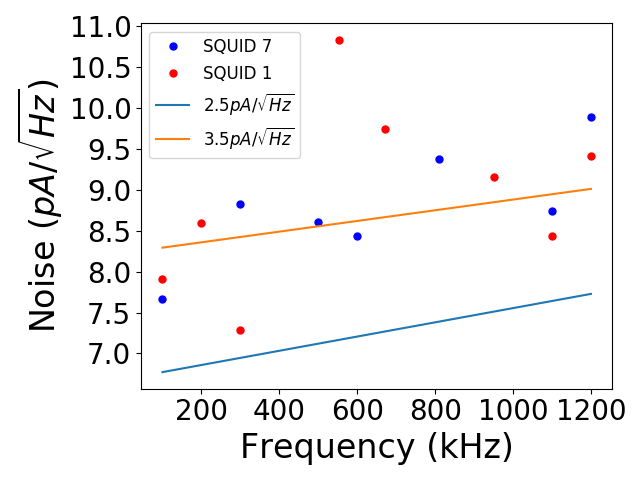
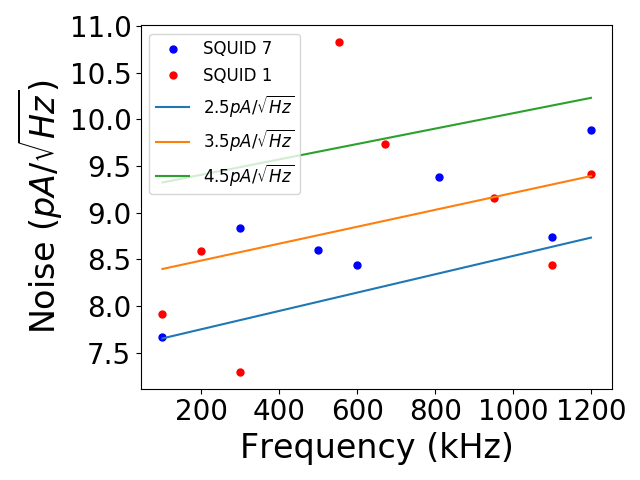
all squid noise predictions need to agree

diff --git a/operation.tex b/operation.tex
@@ -28,7 +28,7 @@
 \hline
 \end{tabular}
 \end{center}
-\caption{The detector yield broken down by observation frequency band, 150, 250, and 410~GHz, as well as the sum. Each row of the table accounts for detector loss.}
+\caption[Detector yield]{The detector yield broken down by observation frequency band, 150, 250, and 410~GHz, as well as the sum. Each row of the table accounts for detector loss.}
 \label{yield_table}
 \end{table}
 
@@ -85,7 +85,7 @@ The losses between row 7 and row 8 were due to detectors being saturated or fail
 %\ee
 The IV curve measurements, described in Section~\ref{sec:thermal_conductance}, provided the electrical power required to hold the detector in the negative electrothermal feedback regime. 
 In the dark test cryostats, ideally, the radiative load was negligible and so the only power on the detectors was the electrical bias power. 
-That is, for the dark test cryostat IV curve measurements, Equation~\ref{eq:pin} becomes
+That is, for the dark test cryostat IV curve measurements, Equation~\ref{eq:pin} became
 \be
 P_{total} = P_{elec} + \cancel{P_{rad}},
 \label{eq:total_power_dark}
@@ -101,10 +101,10 @@ P_{rad} = P_{elec}^{dark} - P_{elec}^{float},
 \ee
 Figure~\ref{fig:dark_light_iv_curves} shows two PV curves for a 250~GHz detector dark in \ac{ETC} and open to light at float in \ac{EBEX}. 
 
-\begin{figure}[ht!]
+\begin{figure}[htp]
 \begin{center}
 \includegraphics[height=2.5in]{figures/board64_wire3_ch06_pv_dark_and_float.png}
-\caption{Electrical power as a function of bias voltage for a detector from a 250~GHz wafer, dark in \ac{ETC} (blue) and at float (red). At float, because of the radiative load, less electrical power was required to hold the detector in the negative electrothermal feedback regime. The difference in electrical powers, 4~pW, was the measured radiative load 
+\caption[PV curves dark in test cryostat and open to light at float]{Electrical power as a function of bias voltage for a detector from a 250~GHz wafer, dark in \ac{ETC} (blue) and at float (red). At float, because of the radiative load, less electrical power was required to hold the detector in the negative electrothermal feedback regime. The difference in electrical powers, 4~pW, was the measured radiative load 
 %\textcolor{red}{Is this the bolometer you want to showcase? (the same one used in EP2.) NO. PICK ONE FROM ETC, 250-23 ?}
 \label{fig:dark_light_iv_curves} }
 \end{center}
@@ -120,14 +120,14 @@ Figure~\ref{fig:dark_light_iv_curves} shows two PV curves for a 250~GHz detector
 
 
 
-Figure~\ref{fig:radiative_load_histograms} has the distributions of the measured radiative loads from the first set of IV curves performed at float, broken down by frequency band. 
+Figure~\ref{fig:radiative_load_histograms} has the distributions of the measured radiative loads from the first set of IV curves performed at float, broken down by observation frequency band. 
 The measured radiative loads were Gaussian-shaped distributions. 
 The Gaussian fits, of $3.6\pm 1.0, \, 5.3\pm 1.8$, and $4.9 \pm 1.4$~pW, agreed closely with the  medians and standard deviations of the distributions, $3.6\pm1.5, \, 5.3\pm1.8$, and $5.0\pm1.4$~pW, 
 for 150, 250, and 410~GHz, respectively. 
 There were 37, 9, and 0 detectors at 150, 250, and 410~GHz with negative measured loads. 
 These non-physical measurements were not understood and not included in the radiative load distributions. 
 
-The predicted radiative loads were generated by calculating the transmission, reflection, and absorption of each element in the detector's optical path \textcolor{red}{reference Kyle and Franky's theses. also put in your own table?}. 
+The predicted radiative loads were generated by calculating the transmission, reflection, and absorption of each element in the detector's optical path \ref{Zilic2014} \ref{}.  
 Assuming detector efficiencies of 0.6, 0.5, and 0.4 at 150, 250, and 410~GHz, the predicted loads were 1.4, 3.7, and 4.7~pW.
 At 250 and 410~GHz, these pre-flight predictions fall within one standard deviation of the measured radiative load. 
 At 150~GHz, the detector efficiency would have to have been 150\% in order for the measurement to have matched the predicted load. 
@@ -135,14 +135,14 @@ This unphysical result tells us there was an excess load in the 150~GHz band.
 Assuming the detector efficiency was actually 80\%, as was measured in \ac{ETC}, Section~\ref{sec:optical_efficiency}, then the incident power on the 150~GHz bolometers was 4.5~pW, 2.1~pW in excess of the predicted incident power of 2.4~pW. 
 \textcolor{red}{Discuss the results of this measurement more? Is there anything else to say? Reference EP2?}
 
-\begin{figure}[ht!]
+\begin{figure}[htp]
 \begin{center}
 %\begin{tabular}{cc}
 \includegraphics[width=0.32\columnwidth]{figures/thesis_150_radiative_load_hist.png}
 \includegraphics[width=0.32\columnwidth]{figures/thesis_250_radiative_load_hist.png}
 \includegraphics[width=0.32\columnwidth]{figures/thesis_410_radiative_load_hist.png}
 %\end{tabular}
-\caption{Histograms of the measured radiative load from the first detector tuning at float. 
+\caption[Radiative load histograms]{Histograms of the measured radiative load from the first detector tuning at float. 
 The different colors represent different wafers.  
 The thin red lines are the gaussian fits of $3.6\pm1.0, \, 5.3\pm1.8$, and $4.9\pm1.4$~pW for the 150, 250, and 410~GHz observation bands, respectively. 
 The black dashed vertical lines are the pre-flight predicted loads of 1.4, 3.7, and 4.7~pW, assuming detector efficiencies of 0.6, 0.5, and 0.4, for 150, 250, and 410~GHz. 

diff --git a/characterization.tex b/characterization.tex
@@ -896,7 +896,7 @@ From here on out, we took the intrinsic \ac{SQUID} noise to be 3.5~$pA/\sqrt{Hz}
 
 \begin{figure}[ht!]
 \begin{center}
-\includegraphics[height=2.5in]{figures/adjusting_squid_noise_with45.png}
+\includegraphics[height=2.5in]{figures/adjusting_squid_noise.png}
 \caption{The measured electronic and \ac{SQUID} noise (red and blue dots) as a function of demodulation frequency. The blue line is the noise prediction assuming the intrinsic \ac{SQUID} noise is 2.5~$pA/\sqrt{Hz}$ while the orange line is assuming 3.5~$pA/\sqrt{Hz}$ and the green line is assuming 4.5~$pA/\sqrt{Hz}$.  
 \label{fig:adjust_squid} }
 \end{center}
